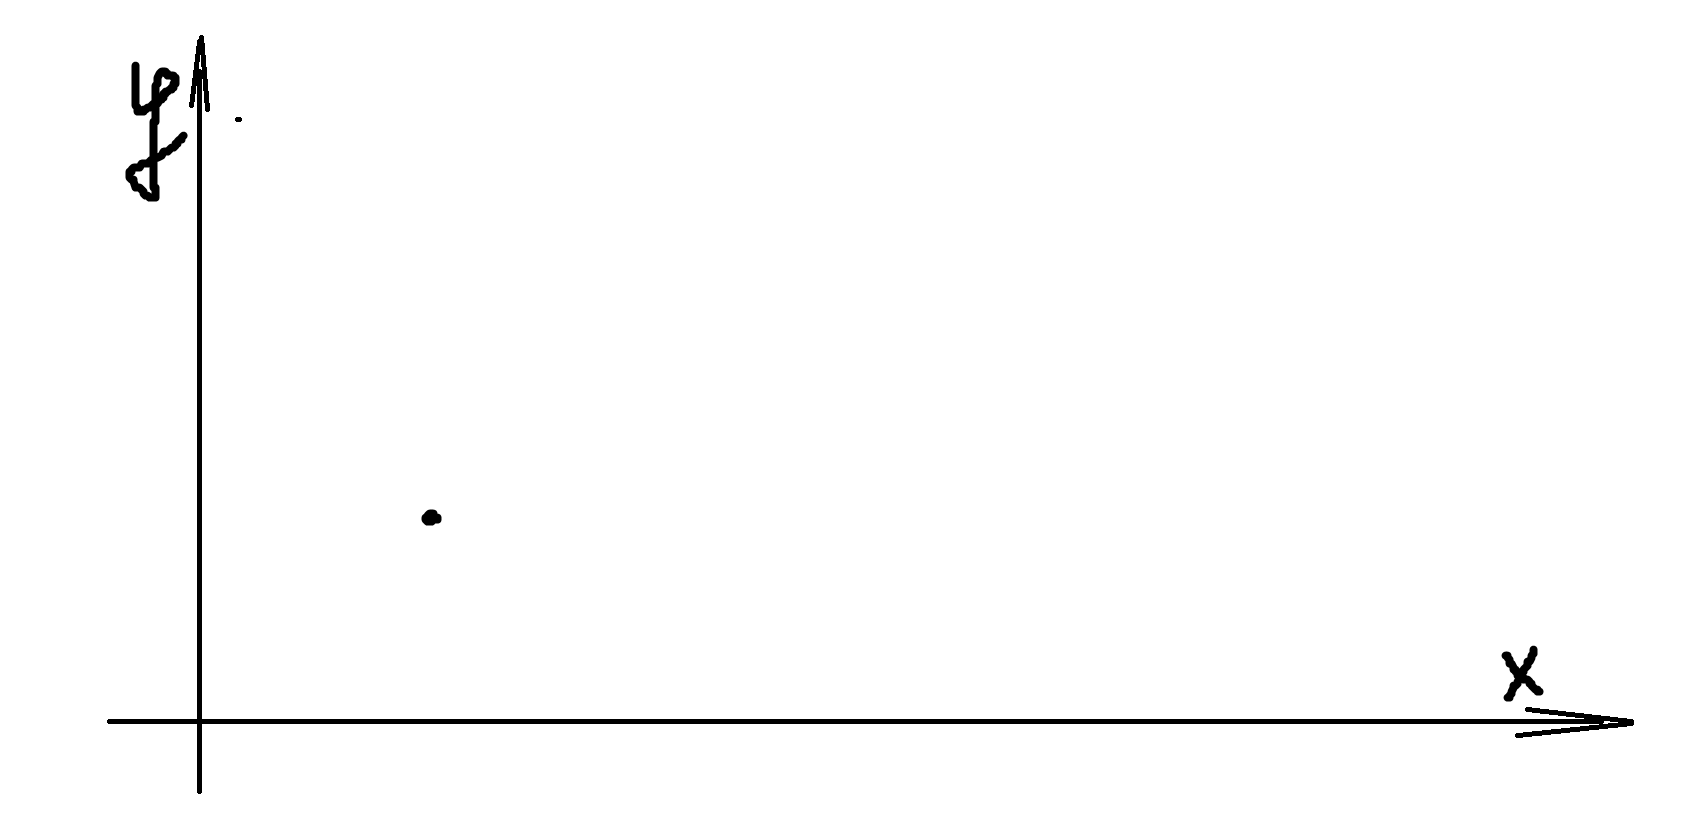
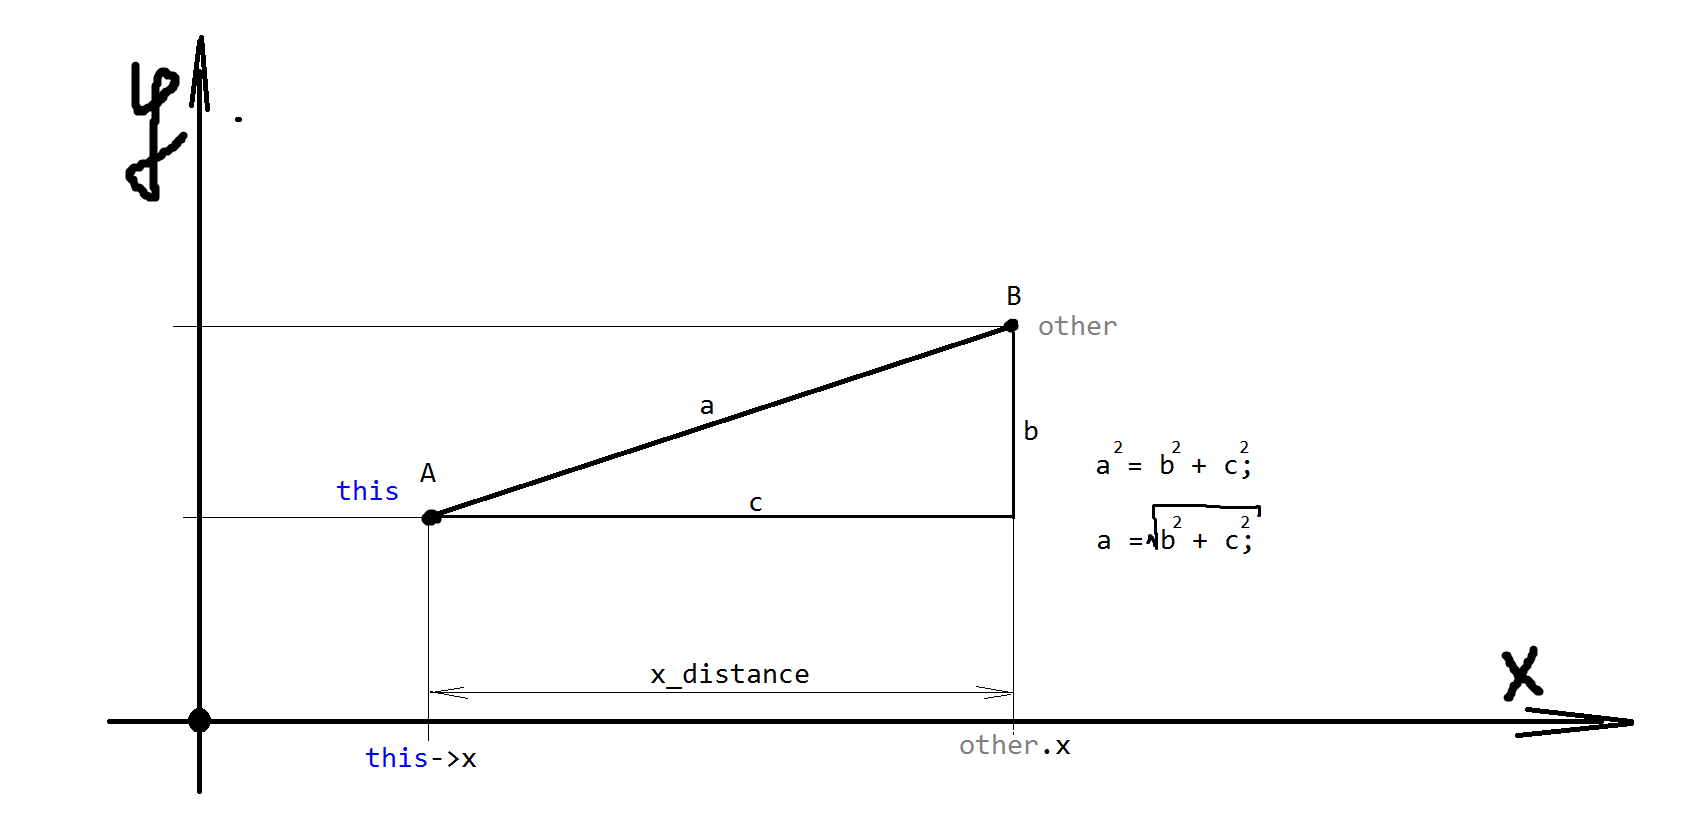
Assignment operator.

diff --git a/Intro/Point/main.cpp b/Intro/Point/main.cpp
@@ -5,6 +5,7 @@ using std::cout;
 using std::endl;
 
 #define tab "\t"
+#define delimiter "\n------------------------------------------------------------\n"
 
 class Point
 {
@@ -27,6 +28,66 @@ public:
 	{
 		this->y = y;
 	}
+
+	//			Constructors:
+	Point()
+	{
+		//Конструктор по умолчанию
+		x = y = 0;
+		cout << "DefaultConstructor:\t" << this << endl;
+	}
+	Point(double x)
+	{
+		//Конструктор с одним параметром
+		this->x = x;
+		this->y = 0;
+		cout << "SingleArgumentConstructor:\t" << this << endl;
+	}
+	Point(double x, double y)
+	{
+		this->x = x;
+		this->y = y;
+		cout << "Constructor:\t\t" << this << endl;
+	}
+	Point(const Point& other)
+	{
+		//Shallow copy - повехностное копирование объекта
+		this->x = other.x;
+		this->y = other.y;
+		cout << "CopyConstructor:\t" << this << endl;
+	}
+	~Point()
+	{
+		cout << "Destructor:\t\t" << this << endl;
+	}
+
+	//			Operators:
+	Point& operator=(const Point& other)
+	{
+		this->x = other.x;
+		this->y = other.y;
+		cout << "CopyAssignment:\t\t" << this << endl;
+		return *this;
+	}
+
+	//			Methods:
+
+	double distance(const Point& other)
+	{
+		//A - this;
+		//B - other;
+		//other.x += 100;
+		double x_distance = this->x - other.x;
+		double y_distance = this->y - other.y;
+		double distance = sqrt(x_distance * x_distance + y_distance * y_distance);
+		//sqrt - Square Root (Квадратный корень).
+		return distance;
+	}
+
+	void print()const
+	{
+		cout << "X = " << x << tab << "Y = " << y << endl;
+	}
 };
 //Создавая структуру или класс мы создаем тип данных.
 //Классы и структуры еще называют пользовательскими типами данных.
@@ -34,7 +95,18 @@ public:
 //					СТРУКТУРА - ЭТО ТИП ДАННЫХ!!!
 //						КЛАСС - ЭТО ТИП ДАННЫХ!!!
 
+double distance(const Point& A, const Point& B)
+{
+	double x_distance = A.get_x() - B.get_x();
+	double y_distance = A.get_y() - B.get_y();
+	double distance = sqrt(x_distance*x_distance + y_distance * y_distance);
+	return distance;
+}
+
 //#define STRUCT_POINT
+#define DISTANCE_CHECK
+//#define CONSTRUCTORS_CHECK
+//#define ASSIGNMENT_CHECK
 
 void main()
 {
@@ -57,16 +129,62 @@ void main()
 	cout << (*pA).x << tab << (*pA).y << endl;
 #endif // STRUCT_POINT
 
+#ifdef DISTANCE_CHECK
 	Point A;
 	A.set_x(2);
 	A.set_y(3);
 	cout << A.get_x() << tab << A.get_y() << endl;
+	Point B;
+	B.set_x(4);
+	B.set_y(5);
+	cout << delimiter << endl;
+	cout << B.distance(A) << endl;	//Мы находимся в точке B, и вычисляем расстояние от этой точки (B) до точки A.
+	cout << delimiter << endl;
+	cout << A.distance(B) << endl;
+	cout << delimiter << endl;
+	cout << distance(A, B) << endl;
+	cout << delimiter << endl;
+	cout << distance(B, A) << endl;
+	cout << delimiter << endl;
 
-	for (int i = 0; i < 5; i++)
+	/*for (int i = 0; i < 5; i++)
 	{
 		cout << i << tab;
 	}
-	cout << endl;
+	cout << endl;*/
+#endif // DISTANCE_CHECK
+
+#ifdef CONSTRUCTORS_CHECK
+	Point A;	//Default constructor
+	A.print();
+	Point B = 3;//Single-argument constructor
+	B.print();
+	Point C(2, 3);//Parametrized constructor
+	C.print();
+	//ДЕСТРУКТОР ВЫЗЫВАЕТСЯ НЕ ДЛЯ КОНСТРУКТОРА, ДЕСТРУКТОР ВЫЗЫВАЕТСЯ ДЛЯ ОБЪЕКТА
+	//Shallow copy
+	Point D = C;	//CopyConstructor
+	D.print();
+	Point E;	//DefaultConstructor
+	E = C;		//CopyAssignment
+	E.print();
+#endif // CONSTRUCTORS_CHECK
+
+#ifdef ASSIGNMENT_CHECK
+	
+	int a, b, c;
+	a = b = c = 0;
+	cout << a << tab << b << tab << c << endl;
+
+	Point A, B, C;
+	cout << "\n-----------------------------------------\n";
+	A = B = C = Point(4, 5);
+	cout << "\n-----------------------------------------\n";
+	A.print();
+	B.print();
+	C.print();
+#endif // ASSIGNMENT_CHECK
+
 }
 
 /*
